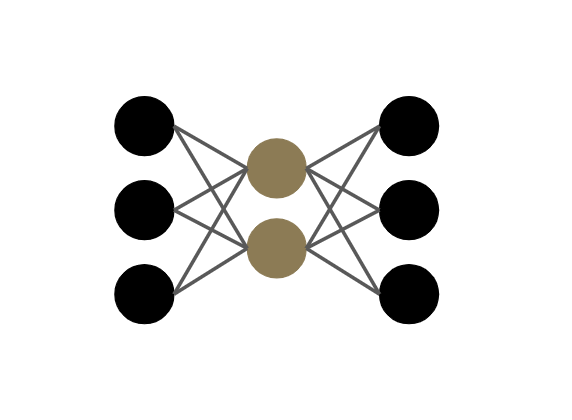
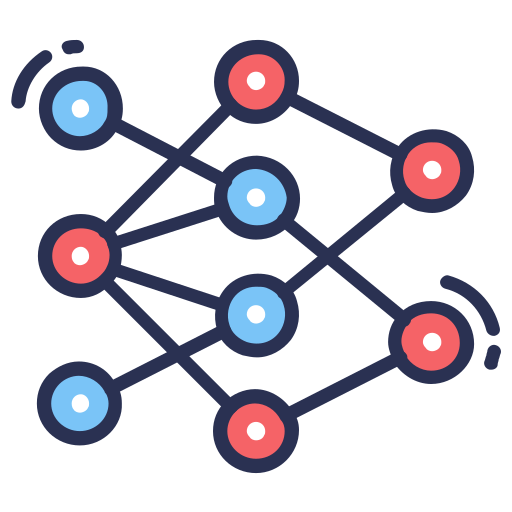
final readme

diff --git a/README.md b/README.md
@@ -4,6 +4,11 @@ Ce github contient l'essentiel du codes réalisé lors de mon stage de 2ème sem
 # Méthodes
 ## Base 
 Le coeur du stage est le *Q-Learning*, une famille d'algorithmes par renforcement dans laquelle les agents apprennent à estimer la fonction Q(s, a) qui associe pour chaque couple état-action une valeur dans R. Cette valeur correspond à la somme décomptée des récompenses au long de la trajectoire de l'agent. (Mnih et al. 2013)
+
+<p align="center">
+  <img src="./old_version/img/q_learning.svg" width="500" style="display: inline-block;" />
+</p>
+
 ## Supplément
 Pour améliorer les performances des agents, des stratégies additionnelles ont été mises en place : **Dueling DQN** (Wang et al. 2015) ; **Double Q-Learning** (Hasselt et al.) ; **Prioritized Experience Replay** (Schaul et al.) ; **QR-DQN** (Dabney et al. 2017). 
 Des algorithmes alternatifs au Q-Learning ont également été proposés : **DDPG** (Lilicrap et al. 2015) ; **PPO** (Schulman et al. 2017).
@@ -13,25 +18,32 @@ Et une stratégie de parallélisation avancée a été mise en place en s'inspir
 Bien que l'environnement soit une sous-classe de gym.Env, l'entiereté du code a été implémenté personnellement à l'aide de la bibliothèque Numpy principalement. L'aspect Deep Learning utilise Tensorflow 2.13.1 et Tensorflow Keras.
 La parallélisation s'est effectué à l'aide des librairies threading et multiprocessing.
 
+<div>
+  <img src="./old_version/img/python.png" width="50" style="display: inline-block; margin-right: 10px;" />
+  <img src="./old_version/img/numpy.png" width="50" style="display: inline-block; margin-right: 10px;" />
+  <img src="./old_version/img/tensorflow.png" width="200" style="display: inline-block; margin-right: 10px;" />
+  <img src="./old_version/img/keras.png" width="50" style="display: inline-block;" />
+</div>
+
 # Description
 
-## Contexte
+## <img src="old_version/img/boat.png" alt="Icon" style="width:40px; height:40px;"/> Contexte
 4 agents s'affrontent lors d'une course, ils doivent atteindre le maximum de "points de passage" (gateways) tout en évitant les obstacles ou les concurrents. Pour cela ils peuvent choisir entre plusieurs actions : freiner fortement ou légèrement, garder une vitesse constante, accélérer légèrement ou fortement ; idem pour l'orientation : tourner fortement ou légèrement à droite, cap constant, tourner fortement ou légèrement à gauche. Cela se traduit par +/-1.5 pour l'accélération forte, +/-0.6 pour l'accélération légère dans la vitesse et +/-15°, +/-6° dans l'orientation. Cela se combine alors en 25 couples d'actions distincts. 
 
-## Observations
+## <img src="old_version/img/obs.png" alt="Icon" style="width:40px; height:40px;"/> Observations 
 Les observations de l'agent se résument en 2 types, d'une part l'observation extérieur du circuit qui est pris sous forme d'une cône devant l'agent (il voit dans un cône de 110° centré en sa direction et d'une distance de 40m, on considère qu'un obstacle dans le cône obstrue la vue et empêche de voir derrière). La deuxième catégorie d'observation concerne le robot en lui même : orientation, vitesse, direction de l'objectif, direction de l'objectif d'après (objectif = gateway), distance à l'objectif et batterie.
 
-## Le réseau
+## <img src="old_version/img/nn.png" alt="Icon" style="width:40px; height:40px;"/> Le réseau
 2 types de réseaux qui diffèrent sur la fusion des modalités d'observation ont été proposés. Le modèle 1 correspond à une fusion "précoce" des modalités, on fait passer le cône dans une convolution 1D avec un kernel de 1 (car il n'y a pas de corrélation spatiale entre les éléments) puis on tile les informations du robot (après les avoir embeddé) de façon à obtenir 2 matrices 220x32 que l'on peut alors concaténer et refaire passer dans des convolutions 1D avant de Flatten.
 La 2ème approche est plus simple étant donné qu'elle Flatten le cone embeddé par une convolution 1D puis concatène le résultat avec les informations du robot embeddées en un seul vecteur de 220x32+32 éléments. On la désigne sous le nom de fusion "tardive".
 
-# Sortir de la simulation
+# <img src="old_version/img/gaus.png" alt="Icon" style="width:40px; height:40px;"/> Sortir de la simulation
 Un aspect particulièrement intéressant du stage a été d'appréhender la sortie de l'agent hors simulation et essayer de le rendre robuste à de potentielles variations en utilisant des Variational Auto Encoder. 
 On distinguera 2 types d'approches dans ce contexte : 
 - L'utilisation d'un *VAE* pré-entrainé sur des observations côniques avant d'injecter le vecteur au réseau
 - L'utilisation d'une couche variationnelle entre le Flatten et l'estimation des Q-valeurs.
 
-# Optimisation & parallélisation <img src="old_version/img/gpu.png" alt="Icon" style="width:20px; height:20px;"/>
+#  <img src="old_version/img/gpu.png" alt="Icon" style="width:40px; height:40px;"/> Optimisation & parallélisation
 Les entrainements de Reinforcement Learning peuvent être très coûteux en terme de ressources CPU:GPU et de temps. Pour limiter le problème, l'utilisation du calcul matriciel offert par Numpy a largement été sollicité. Certains bonnes pratiques ont également été mise en place : allocation mémoire en avance avec des np.zeros, utilisation des librairies random et math pour les opérations ponctuelles, tests de performances dans des boucles for...
 
 La parallélisation du problème RL n'est pas triviale et nécessite une certaine organisation. 
@@ -41,8 +53,23 @@ On attend donc de recevoir ce batch d'observations pour produire un batch d'acti
 La parallélisation de second niveau consiste simplement à mettre tout cet entrainement dans un Thread de la librairie Threading, étant donné que ce n'est pas le script principal mais les workers qui consomment les ressources CPU on peut se permettre d'accumuler plusieurs threads. Avec un système de verrous on fait accéder les Threads au GPU commun ce qui permet de le solliciter davantage. 
 Chaque Thread possède des informations uniques ce qui permet d'entrainer des modèles en parallèles sur le même GPU
 
-# Résultats
+# <img src="old_version/img/result.png" alt="Icon" style="width:40px; height:40px;"/> Résultats 
 Le Q-Learning classique du DQN offre des résultats assez limités, c'est en partie du à l'uniformité du reward étant donné qu'une action impacte peu l'environnement. Cependant en implémentant le QR-DQN et une variante Dueling du QR-DQN (nommée comme DQR-DQN) on arrive à significativement améliorer les performances en doublant presque le nombre de points de passage atteints. Et cela même lors de l'utilisation de réseaux variationnels. Plus de détails dans les graphiques.
+
+
+
+
+
+# Références
+
+- Mnih et al. (2013) [Playing Atari With Deep Reinforcement Learning](https://www.cs.toronto.edu/~vmnih/docs/dqn.pdf)
+- Wang et al. (2015) [Dueling Network Architectures for Deep Reinforcement Learning](https://arxiv.org/pdf/1511.06581)
+- Hasselt et al. (2015) [Deep Reinforcement Learning with Double Q-learning](https://arxiv.org/pdf/1509.06461)
+- Schaul et al. (2017) [ Prioritized Experience Replay](https://arxiv.org/pdf/1511.05952)
+- Dabney et al. (2017) [Distributional Reinforcement Learning with Quantile Regression](https://arxiv.org/pdf/1710.10044)
+- Schulman et al. (2017) [Proximal Policy Optimization Algorithms](https://arxiv.org/pdf/1707.06347)
+- Lilicrap et al. (2015) [Continuous Control With Deep Reinforcement Learning](https://arxiv.org/pdf/1707.06347)
+
 
 
 
